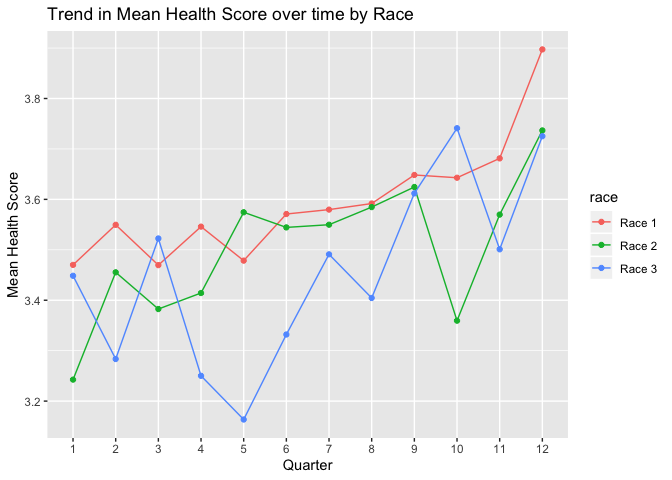
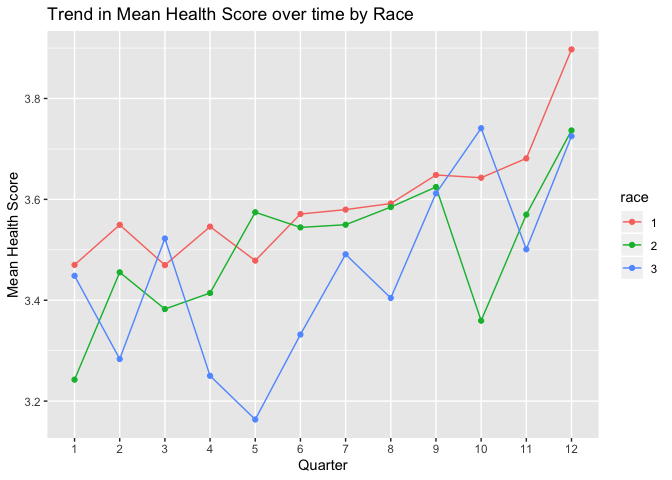
changes

diff --git a/practice_exercise.md b/practice_exercise.md
@@ -7,14 +7,14 @@ Ekta Chaudhary
 library(tidyverse)
 ```
 
-    ## ── Attaching packages ─────────────────────────────────────── tidyverse 1.2.1 ──
+    ## ── Attaching packages ──────────────────────────────────────────────────────────────── tidyverse 1.2.1 ──
 
     ## ✔ ggplot2 3.2.1     ✔ purrr   0.3.2
     ## ✔ tibble  2.1.3     ✔ dplyr   0.8.3
     ## ✔ tidyr   1.0.0     ✔ stringr 1.4.0
     ## ✔ readr   1.3.1     ✔ forcats 0.4.0
 
-    ## ── Conflicts ────────────────────────────────────────── tidyverse_conflicts() ──
+    ## ── Conflicts ─────────────────────────────────────────────────────────────────── tidyverse_conflicts() ──
     ## ✖ dplyr::filter() masks stats::filter()
     ## ✖ dplyr::lag()    masks stats::lag()
 
@@ -418,7 +418,7 @@ health_race = health_race %>%
 ``` r
 pe <- ggplot(health_race, aes(x = quarter, y = avg_score, group = race)) +
   geom_line(aes(color = race)) +
-  geom_point(aes(color = race)) + labs(x = "Quarter", y = "Mean Health Score", title = "Trend in Mean Health Score over time by Race") + scale_color_discrete(labels = c("Race 1", "Race 2", "Race 3"))
+  geom_point(aes(color = race)) + labs(x = "Quarter", y = "Mean Health Score", title = "Trend in Mean Health Score over time by Race") 
 pe
 ```
 
@@ -580,8 +580,11 @@ s
 ![](practice_exercise_files/figure-gfm/unnamed-chunk-37-1.png)<!-- -->
 
 ``` r
-practice_data %>%
+w = practice_data %>%
   drop_na() %>%
+  mutate(
+    sex = factor(sex)
+  ) %>%
   select(
      quarter, sex
   ) %>%
@@ -592,22 +595,6 @@ practice_data %>%
     rcount = n()
   )
 ```
-
-    ## # A tibble: 24 x 3
-    ## # Groups:   quarter [12]
-    ##    quarter   sex rcount
-    ##      <dbl> <dbl>  <int>
-    ##  1       1     0    305
-    ##  2       1     1    295
-    ##  3       2     0    399
-    ##  4       2     1    385
-    ##  5       3     0    503
-    ##  6       3     1    507
-    ##  7       4     0    632
-    ##  8       4     1    655
-    ##  9       5     0    726
-    ## 10       5     1    759
-    ## # … with 14 more rows
 
 ``` r
 practice_data %>%
